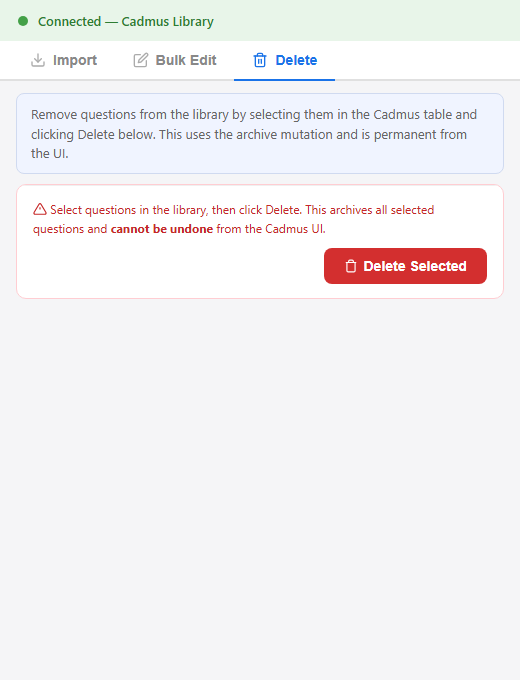
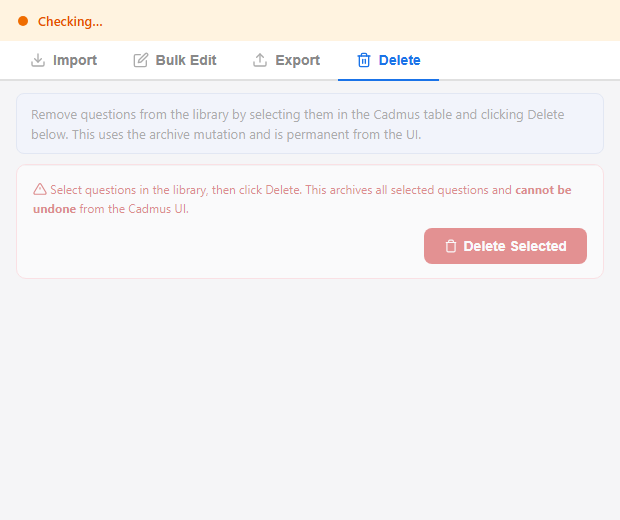
docs: update screenshots, expand export docs, add AI co-authoring credit (v1.5.0)
Retake all tab screenshots to include the Export tab in the tab bar.
Expand Export section with column reference, answer formatting table,
JSON structure example, and QTI round-trip explanation.
Add AI co-authoring credit in Author section.

Changed region(s): [[0.0, 0.0, 1.0, 0.5231]]

diff --git a/README.md b/README.md
@@ -113,7 +113,7 @@ Tags are applied via the `AppendTagsForQuestions` mutation (additive — never r
 
 ### Export Questions
 
-Export questions from the library to four formats — choose between selected questions or the entire library:
+Export questions from the library to four formats — choose between **selected questions** or the **entire library**:
 
 | Format | Extension | Use case |
 |--------|-----------|----------|
@@ -122,7 +122,59 @@ Export questions from the library to four formats — choose between selected qu
 | **JSON** | `.json` | Programmatic access, backup, integration with other systems |
 | **QTI 1.2 XML** | `.xml` | Round-trip: export from one Cadmus library, re-import into another via this extension |
 
-Each export includes full question data fetched via GraphQL: prompt text, answer details (choices, matching pairs, correct values), feedback, difficulty, points, tags, and shuffle settings. Progress is shown in the log panel during export.
+Each export fetches full question data via GraphQL, including prompt text, answer details, feedback, difficulty, points, tags, and shuffle settings. Progress is shown in the log panel during export.
+
+#### Export columns (Excel and CSV)
+
+| Column | Description |
+|--------|-------------|
+| `#` | Sequential index |
+| `Type` | `MCQ`, `MATCHING`, `SHORT`, or `BLANKS` |
+| `Question` | Full prompt text extracted from ProseMirror JSON (blanks shown as `___`) |
+| `Answer / Details` | Type-specific answer formatting (see below) |
+| `Explanation` | Feedback / rationale text |
+| `Difficulty` | `EASY`, `MEDIUM`, or `HARD` |
+| `Points` | Numeric score value |
+| `Tags` | Comma-separated tag names |
+
+#### Answer formatting by type
+
+| Type | Format in Answer / Details column |
+|------|-----------------------------------|
+| **MCQ** | Lettered options with checkmark on correct: `A. Option one ✓` / `B. Option two` / `C. Option three` |
+| **Matching** | Arrow-separated pairs per line: `Term → Definition` |
+| **Fill-in-Blank** | Semicolon-separated accepted answers: `nephron; urine` |
+| **Short Answer** | Semicolon-separated key terms: `cushioning; buoyancy` |
+
+#### JSON structure
+
+The JSON export wraps questions in a metadata envelope:
+
+```json
+{
+  "exportedAt": "2026-03-23T...",
+  "exportVersion": "2.0",
+  "source": "https://teach.cadmus.io/{tenant}/assessment/{id}/library",
+  "totalQuestions": 45,
+  "questions": [
+    {
+      "index": 1,
+      "id": "uuid",
+      "questionType": "MCQ",
+      "prompt": "Which structure...",
+      "choices": [{ "text": "Nephron", "correct": true }, ...],
+      "feedback": "The nephron is...",
+      "points": 1,
+      "difficulty": "MEDIUM",
+      "tags": ["anatomy", "bloom-apply"]
+    }
+  ]
+}
+```
+
+#### QTI 1.2 XML round-trip
+
+The QTI export produces Blackboard-flavoured QTI 1.2 XML that can be re-imported via the **Import** tab. MCQ questions export as `render_choice` items with scored response conditions; all other types export as `render_fib` (short response) items. Matching pairs are embedded in the prompt text using arrow notation.
 
 ### Bulk Edit
 
@@ -264,6 +316,8 @@ After making changes to the source files:
 ## Author
 
 **Lorenzo Vigentini** — [lorenzo@cogentixai.com](mailto:lorenzo@cogentixai.com)
+
+This project was proudly co-authored with AI. **Claude** (Anthropic) contributed as a development partner throughout, assisting with code review and quality assurance, UI/UX design recommendations, security checking of GraphQL mutations and injected scripts, documentation structure and technical writing, and assessment design rationale grounded in educational measurement literature.
 
 ## License
 
